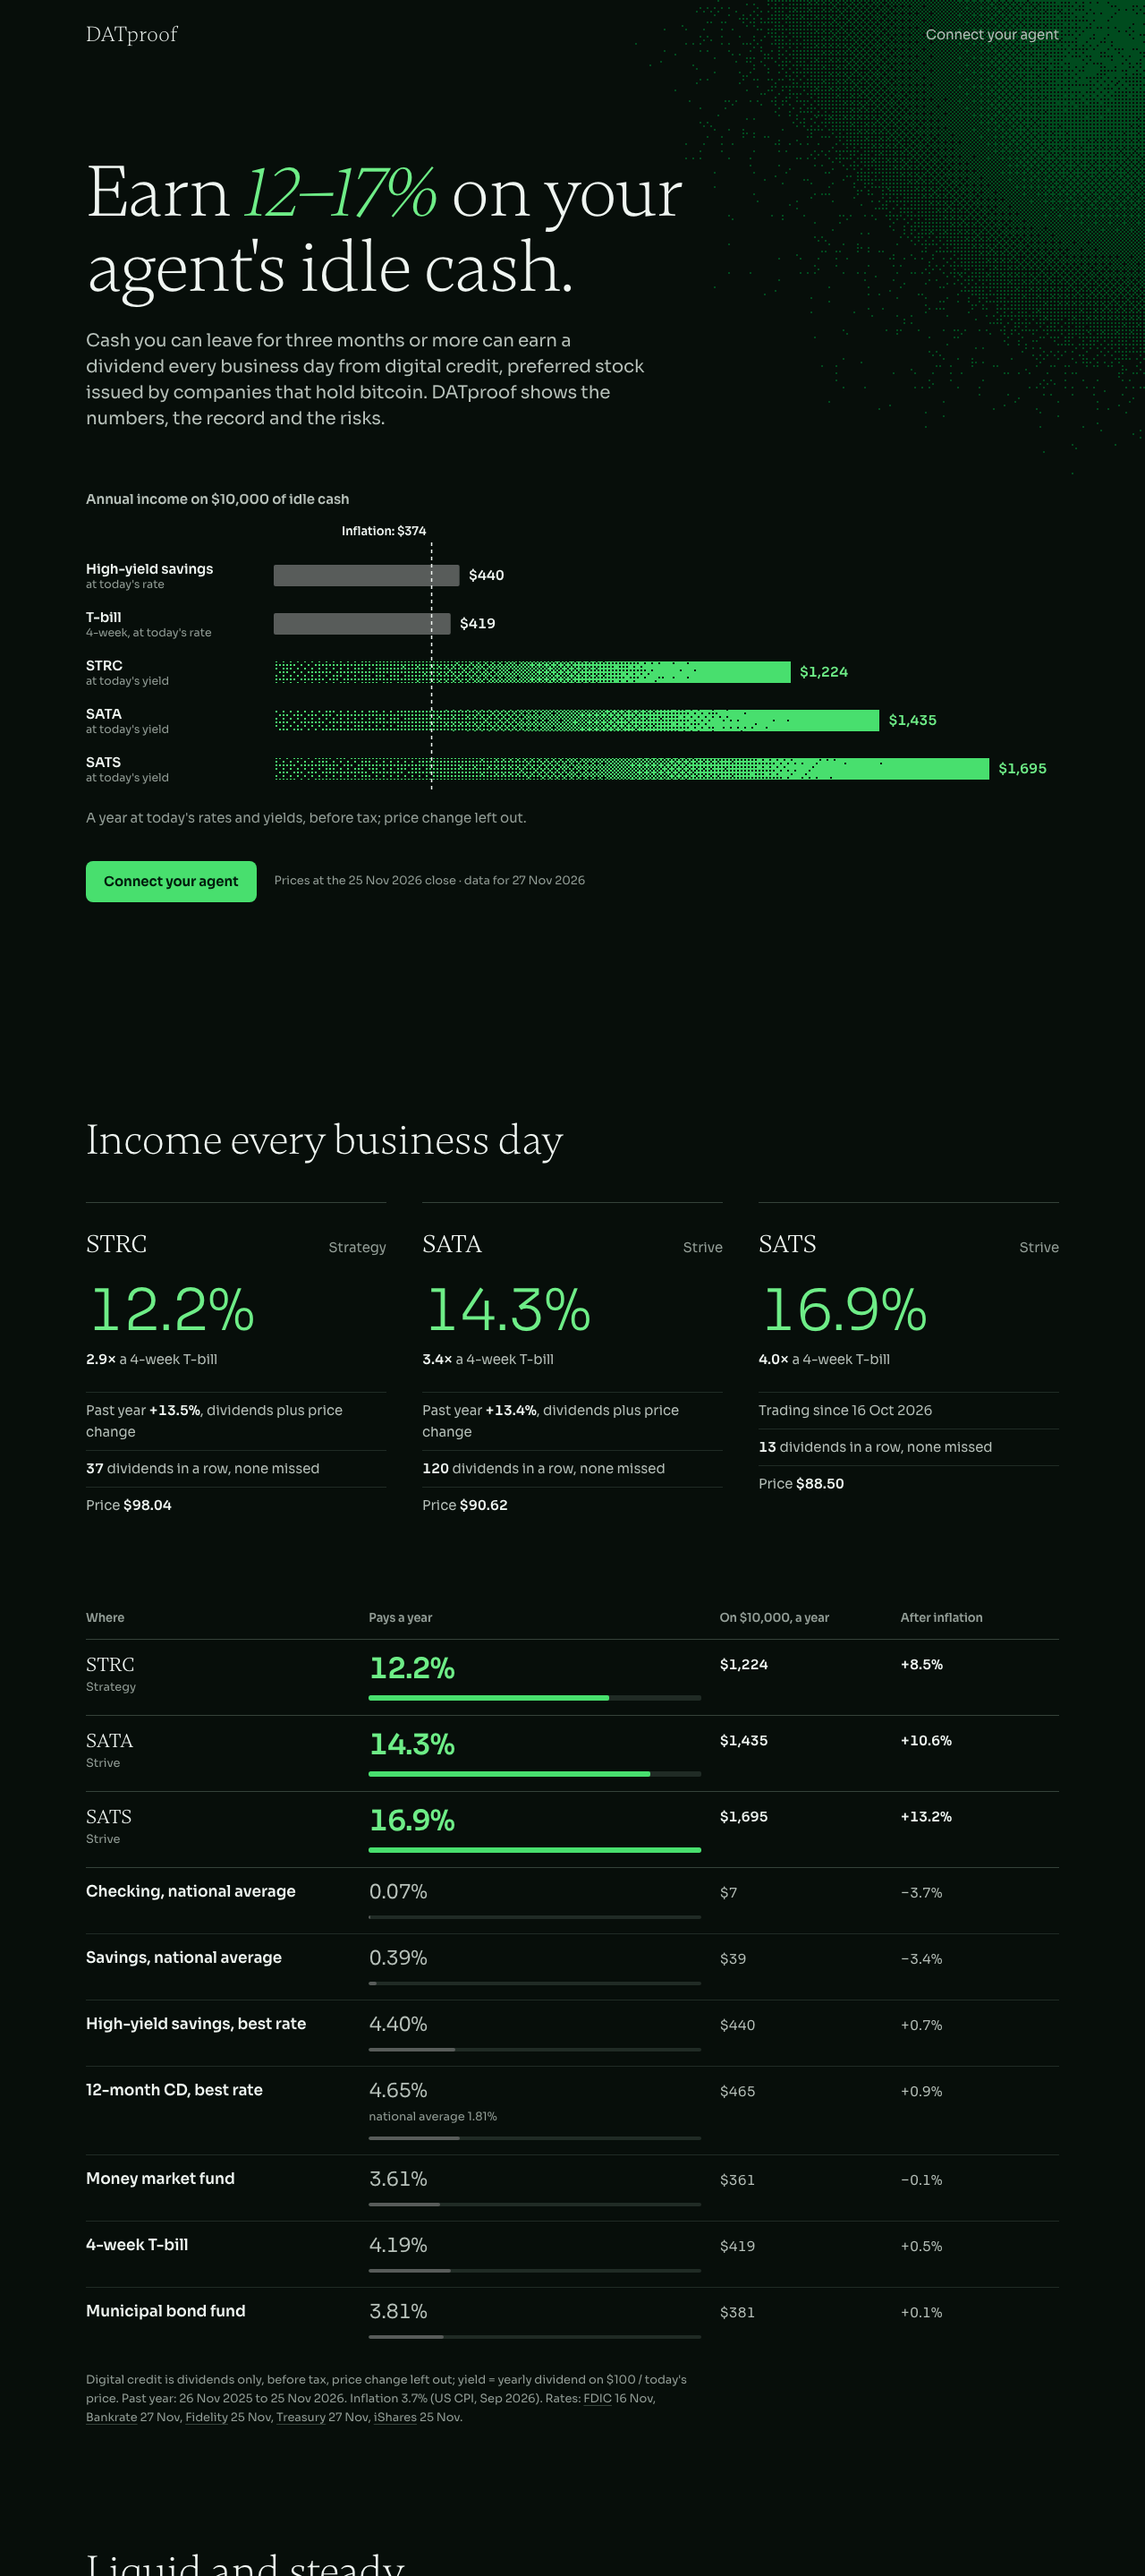
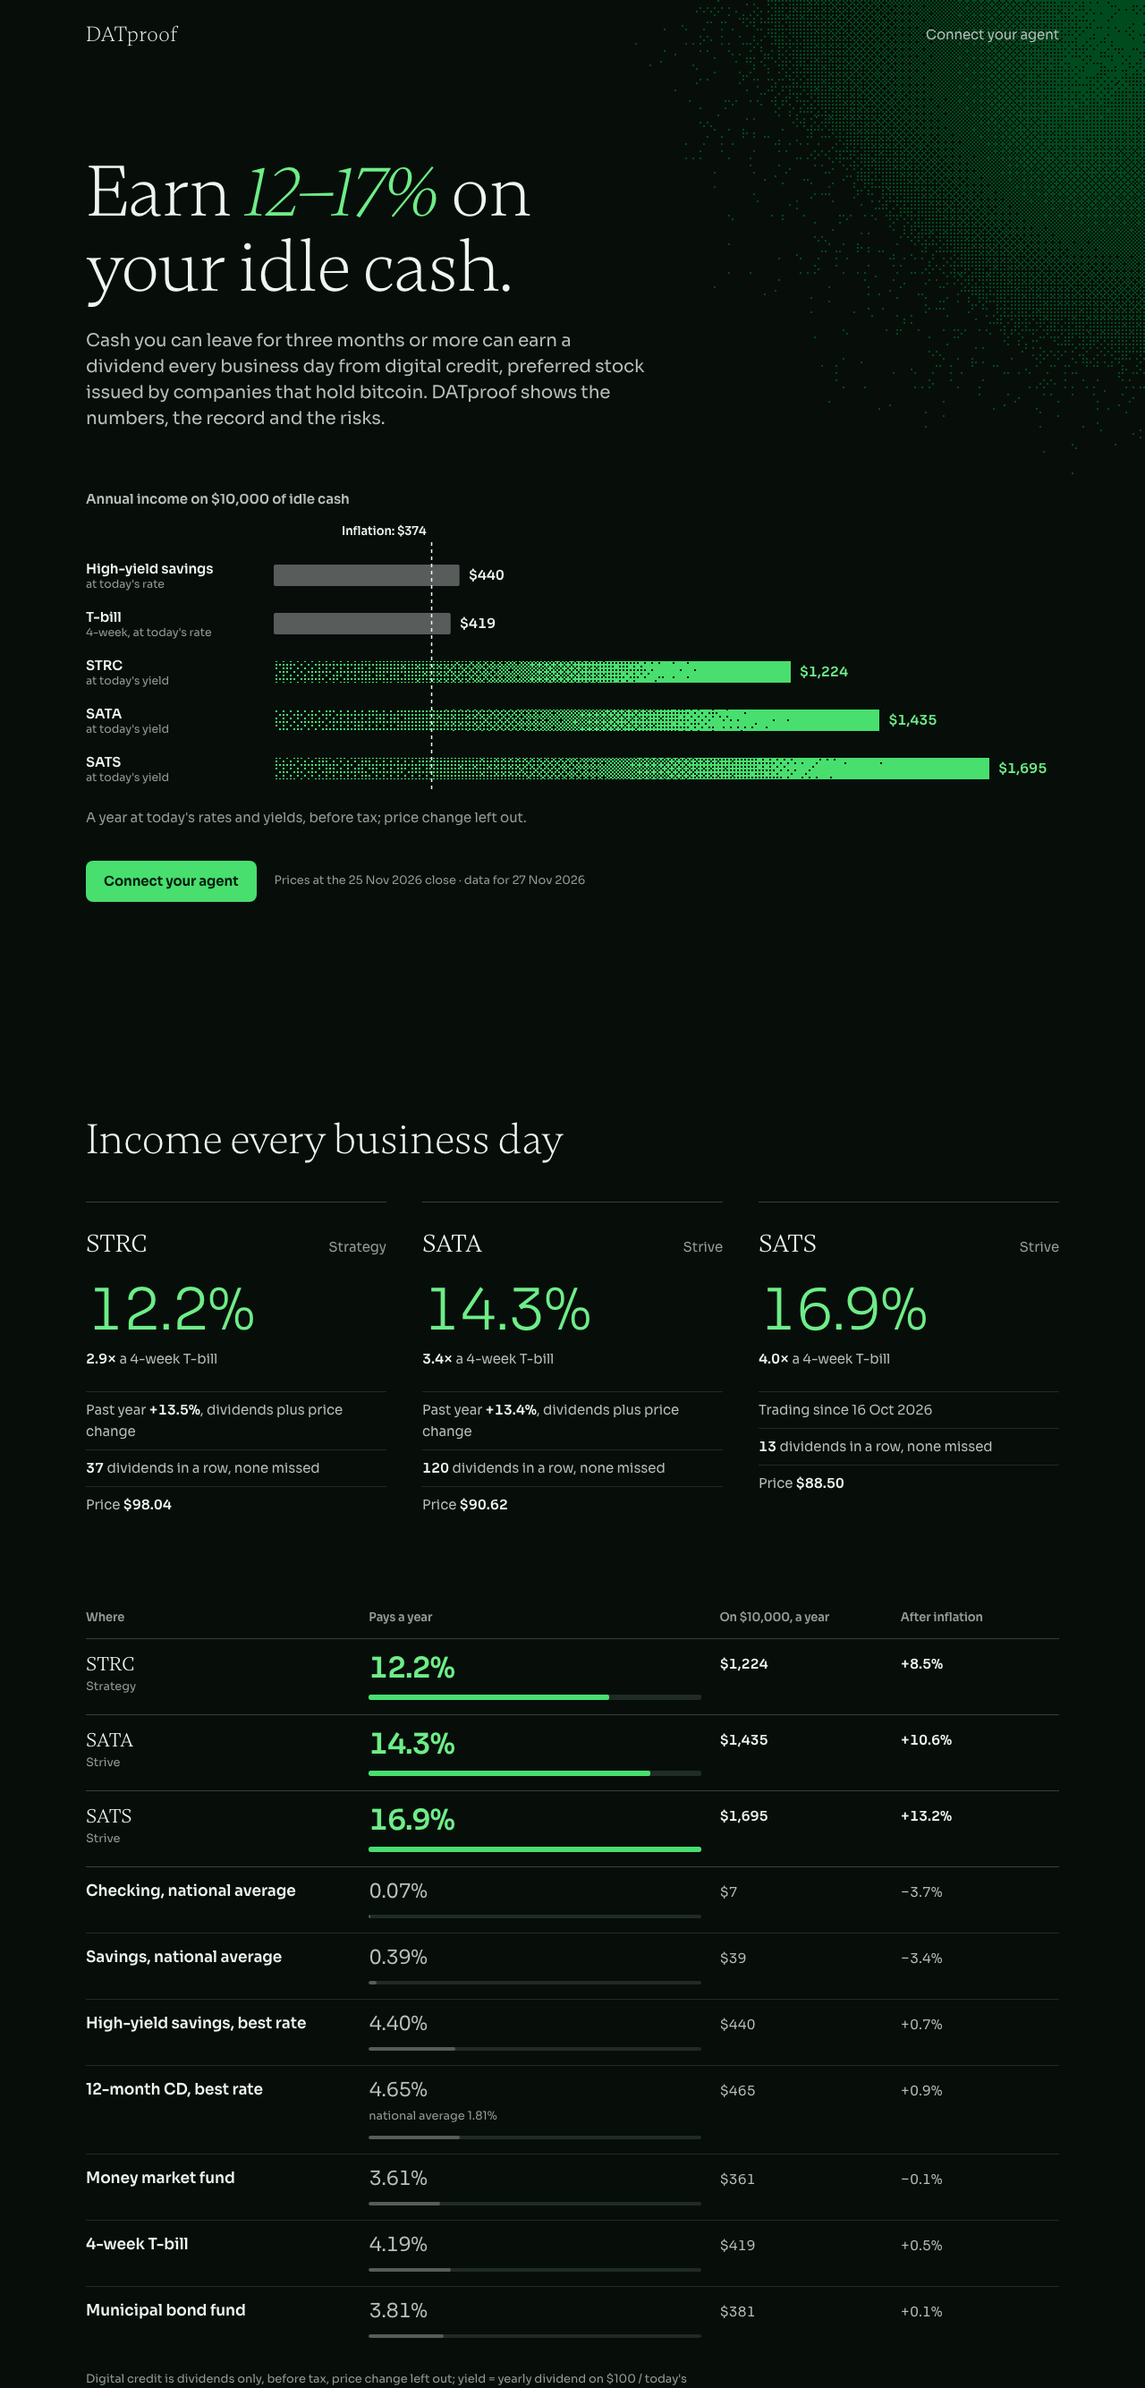
Headline for anyone with idle cash: "Earn 12-17% on your idle cash."
- hero headline drops "agent" (range still filled from the feed); the twin's first heading follows from one constant
- Open Graph and Twitter tags added with the page's title and description
- llms.txt and the README line name the wider reader: anyone with idle cash and the AI they ask
- a test pins the headline and catches the old wording; "Connect your agent" stays as it was

diff --git a/site/next/index.html b/site/next/index.html
@@ -7,6 +7,13 @@
 <meta name="description" content="Daily, sourced data on STRC, SATA and SATS, bitcoin-backed preferred stocks that pay a dividend every business day: yields, past results, a bitcoin crash test and what can go wrong. For anyone with idle cash and the AI they ask.">
 <meta name="color-scheme" content="dark light">
 <link rel="canonical" href="https://lucascashwell3-ai.github.io/datproof/next/">
+<meta property="og:type" content="website">
+<meta property="og:url" content="https://lucascashwell3-ai.github.io/datproof/next/">
+<meta property="og:title" content="DATproof: what idle cash can earn in digital credit, with the record and the risks">
+<meta property="og:description" content="Daily, sourced data on STRC, SATA and SATS, bitcoin-backed preferred stocks that pay a dividend every business day, beside savings, CDs and T-bills. For anyone with idle cash and the AI they ask.">
+<meta name="twitter:card" content="summary">
+<meta name="twitter:title" content="DATproof: what idle cash can earn in digital credit, with the record and the risks">
+<meta name="twitter:description" content="Daily, sourced data on STRC, SATA and SATS, bitcoin-backed preferred stocks that pay a dividend every business day, beside savings, CDs and T-bills. For anyone with idle cash and the AI they ask.">
 <link rel="alternate" type="text/markdown" href="index.md">
 <link rel="icon" type="image/svg+xml" href="../favicon.svg">
 <link rel="preconnect" href="https://fonts.googleapis.com">
@@ -25,7 +32,7 @@
 
 <main>
   <section class="wrap hero" aria-labelledby="h-hero">
-    <h1 id="h-hero" class="hero-h">Earn <span class="hl-dc" id="hl-range"><!--feed:hlrange-->12–17%<!--/feed:hlrange--></span> on your agent's idle cash.</h1>
+    <h1 id="h-hero" class="hero-h">Earn <span class="hl-dc" id="hl-range"><!--feed:hlrange-->12–17%<!--/feed:hlrange--></span> on your idle cash.</h1>
     <p class="hero-sub">Cash you can leave for three months or more can earn a dividend every business day from digital credit, preferred stock issued by companies that hold bitcoin. DATproof shows the numbers, the record and the risks.</p>
 
     <figure class="earn" aria-labelledby="earn-cap">

diff --git a/datproof_feed/pages.py b/datproof_feed/pages.py
@@ -46,6 +46,7 @@ MARKERS = ("faqld", "hlrange", "asof", "panels", "compare", "liquid", "liquidsrc
 BUY_DAYS = 90  # the by_buy_price holding time shown on the page
 BENCH = [("tbill_4w", "4-week T-bill", "US Treasury"), ("mmf_vmfxx", "Money market fund", "Vanguard VMFXX"),
          ("usdc_aave_v3", "USDC lending", "Aave v3, Ethereum")]
+HEADLINE = "Earn {range} on your idle cash."  # the page's h1, with the range filled from the feed
 HERO_SUB = ("Cash you can leave for three months or more can earn a dividend every business day from digital credit, "
             "preferred stock issued by companies that hold bitcoin. DATproof shows the numbers, the record and the risks.")
 
@@ -1286,7 +1287,7 @@ def next_md(feed: dict) -> str:
     qa = "\n\n".join(f"### {q}\n\n{a}" for q, a in faq(feed))
     risk = "\n".join(f"- **{a}**" + (f" {b}" if b else "") for a, b in risk_items(feed))
     chat = "\n\n".join(f"> {x}" for x in chat_lines(feed))
-    return f"""# DATproof: earn {hl_range(feed)} on your agent's idle cash
+    return f"""# DATproof: {HEADLINE.format(range=hl_range(feed)).rstrip(".").replace("Earn", "earn", 1)}
 
 {HERO_SUB}
 
@@ -1369,9 +1370,9 @@ def llms_txt(feed: dict) -> str:
     rate_line += (f"; a 4-week T-bill {pct(tb, 2)}.\n" if tb is not None else ".\n")
     return f"""# DATproof
 
-> DATproof is a free daily data feed on where idle US-dollar cash can sit: three bitcoin-backed
-> preferred stocks (STRC, SATA, SATS) that pay a dividend every business day, beside savings,
-> CDs, a money market fund and T-bills. Every number carries its source and the date it is true
+> DATproof is a free daily data feed, for anyone with idle cash and the AI they ask, on where
+> idle US-dollar cash can sit: three bitcoin-backed preferred stocks (STRC, SATA, SATS) that pay
+> a dividend every business day, beside savings, CDs, a money market fund and T-bills. Every number carries its source and the date it is true
 > for. It informs and does arithmetic; it never chooses for anyone, holds no money and places no
 > orders. Not advice.
 

diff --git a/tests/test_feed_page_layers.py b/tests/test_feed_page_layers.py
@@ -54,3 +54,32 @@ def test_the_length_check_catches_a_planted_paragraph():
     planted = PAGE.replace('<h2 id="h-risk">What can go wrong</h2>',
                            '<h2 id="h-risk">What can go wrong</h2><p class="fine">' + "word " * 100 + "</p>")
     assert long_lines(planted)
+
+
+def headline_problems(page: str, md: str, rng: str) -> list[str]:
+    import html as h
+    from datproof_feed import pages
+    want = pages.HEADLINE.format(range=rng)
+    m = re.search(r'<h1[^>]*>(.*?)</h1>', page, re.S)
+    got = h.unescape(re.sub(r"<[^>]+>", "", m.group(1))).strip() if m else ""
+    out = [] if got == want else [f"page h1 is {got!r}, not {want!r}"]
+    if not md.startswith(f"# DATproof: earn {rng} on your idle cash\n"):
+        out.append("the twin's first heading does not match")
+    if "agent's idle cash" in page or "agent's idle cash" in md:
+        out.append("old agent-only headline found")
+    return out
+
+
+def test_the_headline_is_for_anyone_with_idle_cash():
+    import json
+    from datproof_feed import pages
+    feed = json.loads((ROOT / "site" / "v1" / "instruments.json").read_text())
+    md = (ROOT / "site" / "next" / "index.md").read_text()
+    assert headline_problems(PAGE, md, pages.hl_range(feed)) == []
+    assert pages.HEADLINE == "Earn {range} on your idle cash."
+
+
+def test_the_headline_check_catches_the_old_wording():
+    planted = PAGE.replace("on your idle cash.</h1>", "on your agent's idle cash.</h1>")
+    md = (ROOT / "site" / "next" / "index.md").read_text()
+    assert headline_problems(planted, md, "12–17%")

diff --git a/README.md b/README.md
@@ -27,7 +27,7 @@ share sales and the digital credit instruments (STRC, SATA) that raise the cash.
 
 ## Where can idle cash sit?
 
-A free daily data feed for AI agents and the people who run them. It lists the Bitcoin
+A free daily data feed for anyone with idle cash and the AI they ask. It lists the Bitcoin
 treasury preferred stocks (STRC, SATA, SATS, STRF, STRK, STRD) beside what idle cash earns
 in savings, CDs, a money market fund, T-bills and a municipal bond fund, each with its
 yield, its worst past-year price fall, its payment record and risk flags. Every number names

diff --git a/site/next/index.md b/site/next/index.md
@@ -1,4 +1,4 @@
-# DATproof: earn 12–17% on your agent's idle cash
+# DATproof: earn 12–17% on your idle cash
 
 Cash you can leave for three months or more can earn a dividend every business day from digital credit, preferred stock issued by companies that hold bitcoin. DATproof shows the numbers, the record and the risks.
 
